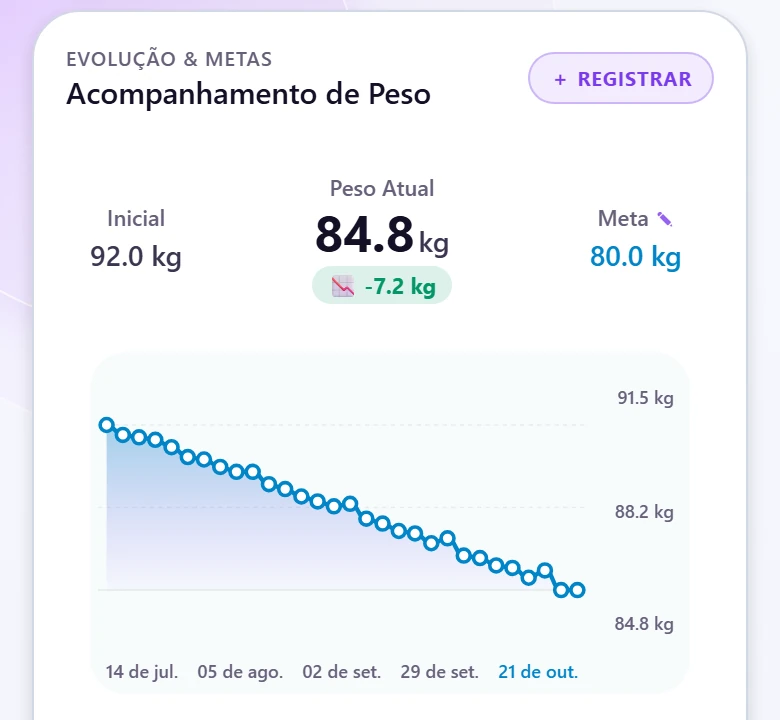
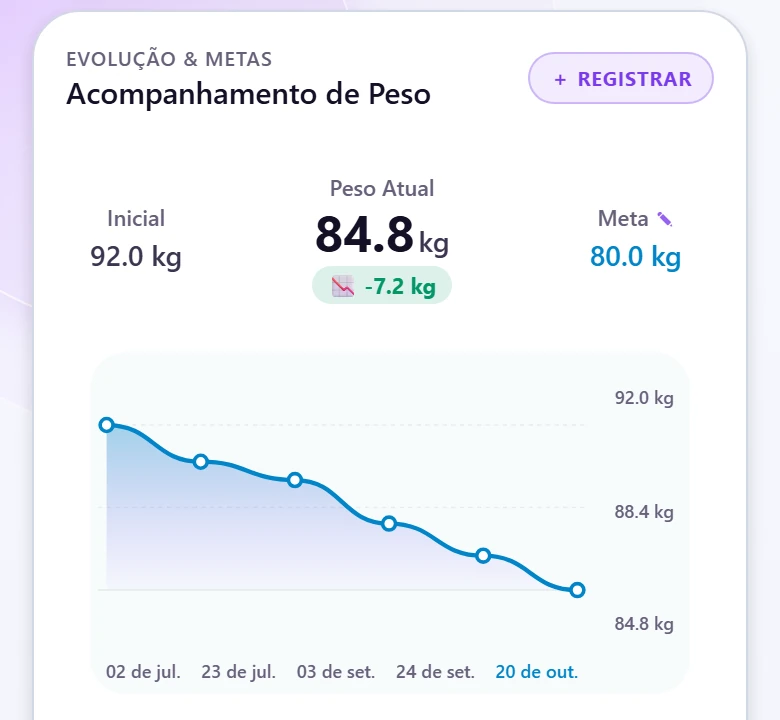
Página inicial: foto entre o título e a descrição de cada recurso, gráfico de peso com menos pesagens e plano anual à esquerda

diff --git a/index.html b/index.html
@@ -75,57 +75,57 @@ permalink: /
     </div>
     <div class="features">
       <article class="card feature">
-        <img class="feature-shot" src="{{ '/assets/img/recursos/calendario.webp' | relative_url }}" width="780" height="720" alt="Calendário do PinLog com os dias de aplicação marcados e as próximas datas" loading="lazy" decoding="async" />
         <span class="icon"><svg viewBox="0 0 24 24" fill="none" stroke="currentColor" stroke-width="2" stroke-linecap="round" aria-hidden="true"><rect x="3" y="4.5" width="18" height="16" rx="3"/><path d="M3 9.5h18M8 2.5v4M16 2.5v4"/></svg></span>
         <h3>Calendário e próxima data</h3>
+        <img class="feature-shot" src="{{ '/assets/img/recursos/calendario.webp' | relative_url }}" width="780" height="720" alt="Calendário do PinLog com os dias de aplicação marcados e as próximas datas" loading="lazy" decoding="async" />
         <p>Defina o intervalo da rotina e veja quando é a próxima aplicação. O histórico fica organizado por mês.</p>
       </article>
       <article class="card feature">
-        <img class="feature-shot" src="{{ '/assets/img/recursos/mapa.webp' | relative_url }}" width="780" height="720" alt="Mapa do corpo do PinLog com as regiões numeradas para escolher o local" loading="lazy" decoding="async" />
         <span class="icon cool"><svg viewBox="0 0 24 24" fill="none" stroke="currentColor" stroke-width="2" stroke-linecap="round" aria-hidden="true"><circle cx="12" cy="5" r="2.5"/><path d="M12 8v7M8 10.5l4-1 4 1M9.5 21l2.5-6 2.5 6"/></svg></span>
         <h3>Mapa do corpo e rodízio</h3>
+        <img class="feature-shot" src="{{ '/assets/img/recursos/mapa.webp' | relative_url }}" width="780" height="720" alt="Mapa do corpo do PinLog com as regiões numeradas para escolher o local" loading="lazy" decoding="async" />
         <p>Marque a região de cada aplicação no mapa e veja onde aplicou por último, para alternar com facilidade.</p>
       </article>
       <article class="card feature">
-        <img class="feature-shot" src="{{ '/assets/img/recursos/sintomas.webp' | relative_url }}" width="780" height="720" alt="Registro de aplicação com sintomas, reação e anotação" loading="lazy" decoding="async" />
         <span class="icon"><svg viewBox="0 0 24 24" fill="none" stroke="currentColor" stroke-width="2" stroke-linecap="round" aria-hidden="true"><path d="M4 5h16v11H8l-4 4z"/><path d="M8 9.5h8M8 12.5h5"/></svg></span>
         <h3>Sintomas e anotações</h3>
+        <img class="feature-shot" src="{{ '/assets/img/recursos/sintomas.webp' | relative_url }}" width="780" height="720" alt="Registro de aplicação com sintomas, reação e anotação" loading="lazy" decoding="async" />
         <p>Registre como se sentiu e escreva observações em cada aplicação, para lembrar depois com clareza.</p>
       </article>
       <article class="card feature">
-        <img class="feature-shot" src="{{ '/assets/img/recursos/peso.webp' | relative_url }}" width="780" height="720" alt="Gráfico de peso com peso inicial, atual e meta" loading="lazy" decoding="async" />
         <span class="icon mint"><svg viewBox="0 0 24 24" fill="none" stroke="currentColor" stroke-width="2" stroke-linecap="round" aria-hidden="true"><path d="M4 19 9.5 12l4 3.5L20 6"/><path d="M15 6h5v5"/></svg></span>
         <h3>Peso, medidas e fotos</h3>
+        <img class="feature-shot" src="{{ '/assets/img/recursos/peso.webp' | relative_url }}" width="780" height="720" alt="Gráfico de peso com peso inicial, atual e meta" loading="lazy" decoding="async" />
         <p>Acompanhe peso, metas e medidas ao longo do tempo. As fotos de evolução ficam guardadas só no seu aparelho.</p>
       </article>
       <article class="card feature">
-        <img class="feature-shot" src="{{ '/assets/img/recursos/estoque.webp' | relative_url }}" width="780" height="720" alt="Tela de estoque com doses disponíveis, duração prevista e data para repor" loading="lazy" decoding="async" />
         <span class="icon cool"><svg viewBox="0 0 24 24" fill="none" stroke="currentColor" stroke-width="2" stroke-linecap="round" aria-hidden="true"><path d="M21 8 12 3 3 8v8l9 5 9-5z"/><path d="M3 8l9 5 9-5M12 13v8"/></svg></span>
         <h3>Estoque com previsão</h3>
+        <img class="feature-shot" src="{{ '/assets/img/recursos/estoque.webp' | relative_url }}" width="780" height="720" alt="Tela de estoque com doses disponíveis, duração prevista e data para repor" loading="lazy" decoding="async" />
         <p>Saiba quantas doses restam e receba o aviso na hora certa de repor, considerando o prazo de entrega que você define.</p>
       </article>
       <article class="card feature">
-        <img class="feature-shot" src="{{ '/assets/img/recursos/lembretes.webp' | relative_url }}" width="780" height="720" alt="Notificações discretas do PinLog na tela bloqueada, sem o nome do que é aplicado" loading="lazy" decoding="async" />
         <span class="icon"><svg viewBox="0 0 24 24" fill="none" stroke="currentColor" stroke-width="2" stroke-linecap="round" aria-hidden="true"><path d="M6 8a6 6 0 0 1 12 0c0 7 3 8 3 8H3s3-1 3-8M10.3 20a2 2 0 0 0 3.4 0"/></svg></span>
         <h3>Lembretes discretos</h3>
+        <img class="feature-shot" src="{{ '/assets/img/recursos/lembretes.webp' | relative_url }}" width="780" height="720" alt="Notificações discretas do PinLog na tela bloqueada, sem o nome do que é aplicado" loading="lazy" decoding="async" />
         <p>Avisos no dia da aplicação e na hora de repor. Por padrão, o aviso não diz o que é, para ninguém ver na tela bloqueada.</p>
       </article>
       <article class="card feature">
-        <img class="feature-shot" src="{{ '/assets/img/recursos/conversor.webp' | relative_url }}" width="780" height="720" alt="Resultado do conversor de unidades com a escala da seringa" loading="lazy" decoding="async" />
         <span class="icon mint"><svg viewBox="0 0 24 24" fill="none" stroke="currentColor" stroke-width="2" stroke-linecap="round" aria-hidden="true"><path d="M7 4v16M17 4v16M3 9h8M13 15h8"/></svg></span>
         <h3>Conversor de unidades</h3>
+        <img class="feature-shot" src="{{ '/assets/img/recursos/conversor.webp' | relative_url }}" width="780" height="720" alt="Resultado do conversor de unidades com a escala da seringa" loading="lazy" decoding="async" />
         <p>Grátis aqui no site, sem cadastro: converte mg, mL e unidades da seringa com os valores que você digita. Não indica doses. <a href="{{ '/conversor' | relative_url }}">Abrir o conversor</a></p>
       </article>
       <article class="card feature">
-        <img class="feature-shot" src="{{ '/assets/img/recursos/perfis.webp' | relative_url }}" width="780" height="720" alt="Troca entre dois perfis de acompanhamento no PinLog" loading="lazy" decoding="async" />
         <span class="icon cool"><svg viewBox="0 0 24 24" fill="none" stroke="currentColor" stroke-width="2" stroke-linecap="round" aria-hidden="true"><circle cx="9" cy="8" r="3.5"/><circle cx="17" cy="9.5" r="2.5"/><path d="M2.5 20c.8-3.5 3.4-5.5 6.5-5.5s5.7 2 6.5 5.5M15 14.5c2.6 0 4.6 1.6 5.5 4.5"/></svg></span>
         <h3>Dois perfis</h3>
+        <img class="feature-shot" src="{{ '/assets/img/recursos/perfis.webp' | relative_url }}" width="780" height="720" alt="Troca entre dois perfis de acompanhamento no PinLog" loading="lazy" decoding="async" />
         <p>Acompanhe também a rotina de outra pessoa adulta, com histórico, mapa e estoque separados. Recurso Premium.</p>
       </article>
       <article class="card feature">
-        <img class="feature-shot" src="{{ '/assets/img/recursos/backup.webp' | relative_url }}" width="780" height="720" alt="Opções de backup: relatório em PDF, planilha, backup e restauração" loading="lazy" decoding="async" />
         <span class="icon mint"><svg viewBox="0 0 24 24" fill="none" stroke="currentColor" stroke-width="2" stroke-linecap="round" aria-hidden="true"><path d="M12 3v12M7 10l5 5 5-5M4 19h16"/></svg></span>
         <h3>Sincronização e backup</h3>
+        <img class="feature-shot" src="{{ '/assets/img/recursos/backup.webp' | relative_url }}" width="780" height="720" alt="Opções de backup: relatório em PDF, planilha, backup e restauração" loading="lazy" decoding="async" />
         <p>Seus registros ficam no aparelho e na sua conta, para trocar de celular sem perder nada. Exporte um backup completo quando quiser.</p>
       </article>
     </div>
@@ -162,15 +162,15 @@ permalink: /
       <p>O essencial é gratuito. O Premium amplia o histórico e os perfis e traz relatório em PDF, gráficos, plano da rotina e bloqueio do app.</p>
     </div>
     <div class="plans">
-      <div class="card plan">
-        <h3>Mensal</h3>
-        <p class="price">R$ 14,90 <small>/mês</small></p>
-      </div>
       <div class="card plan featured">
         <span class="badge">Economize 33%</span>
         <h3>Anual</h3>
         <p class="price">R$ 9,90 <small>/mês</small></p>
         <p class="equiv">R$ 118,80 cobrados uma vez por ano</p>
+      </div>
+      <div class="card plan">
+        <h3>Mensal</h3>
+        <p class="price">R$ 14,90 <small>/mês</small></p>
       </div>
     </div>
     <ul class="premium-list">

diff --git a/assets/css/site.css b/assets/css/site.css
@@ -1866,7 +1866,7 @@ a:hover {
   gap: 6px;
 }
 
-/* Recursos: a real screen of the app on top of each card */
+/* Recursos: a real screen of the app between each card's title and its text */
 .feature-shot {
   display: block;
   width: 100%;
@@ -1874,7 +1874,7 @@ a:hover {
   aspect-ratio: 13 / 12;
   object-fit: cover;
   object-position: top;
-  margin-bottom: 18px;
+  margin: 14px 0 16px;
   border-radius: 18px;
   border: 1px solid var(--border-soft);
   background: var(--card-soft);
